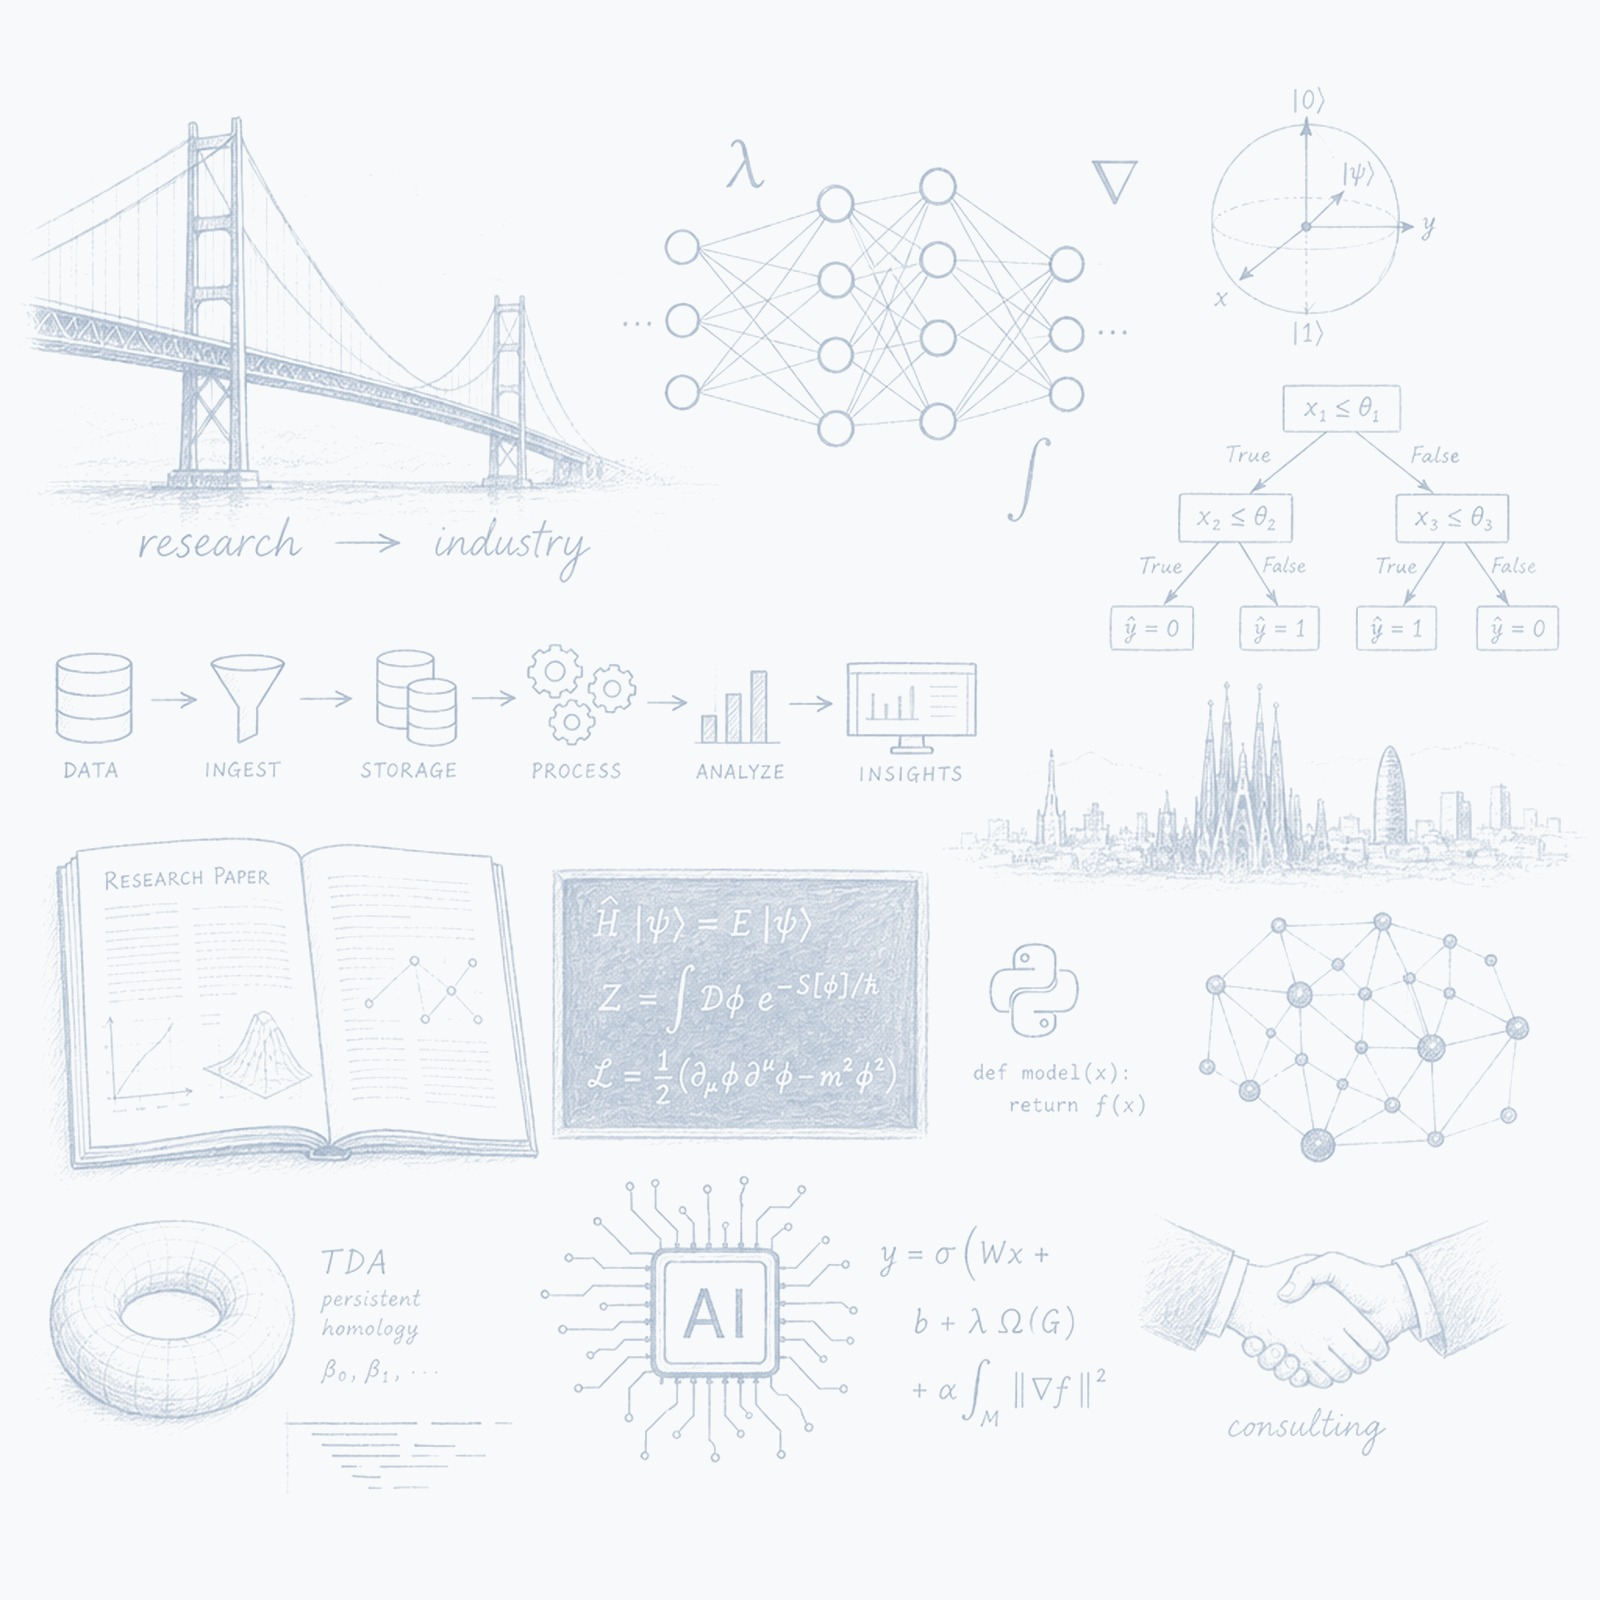
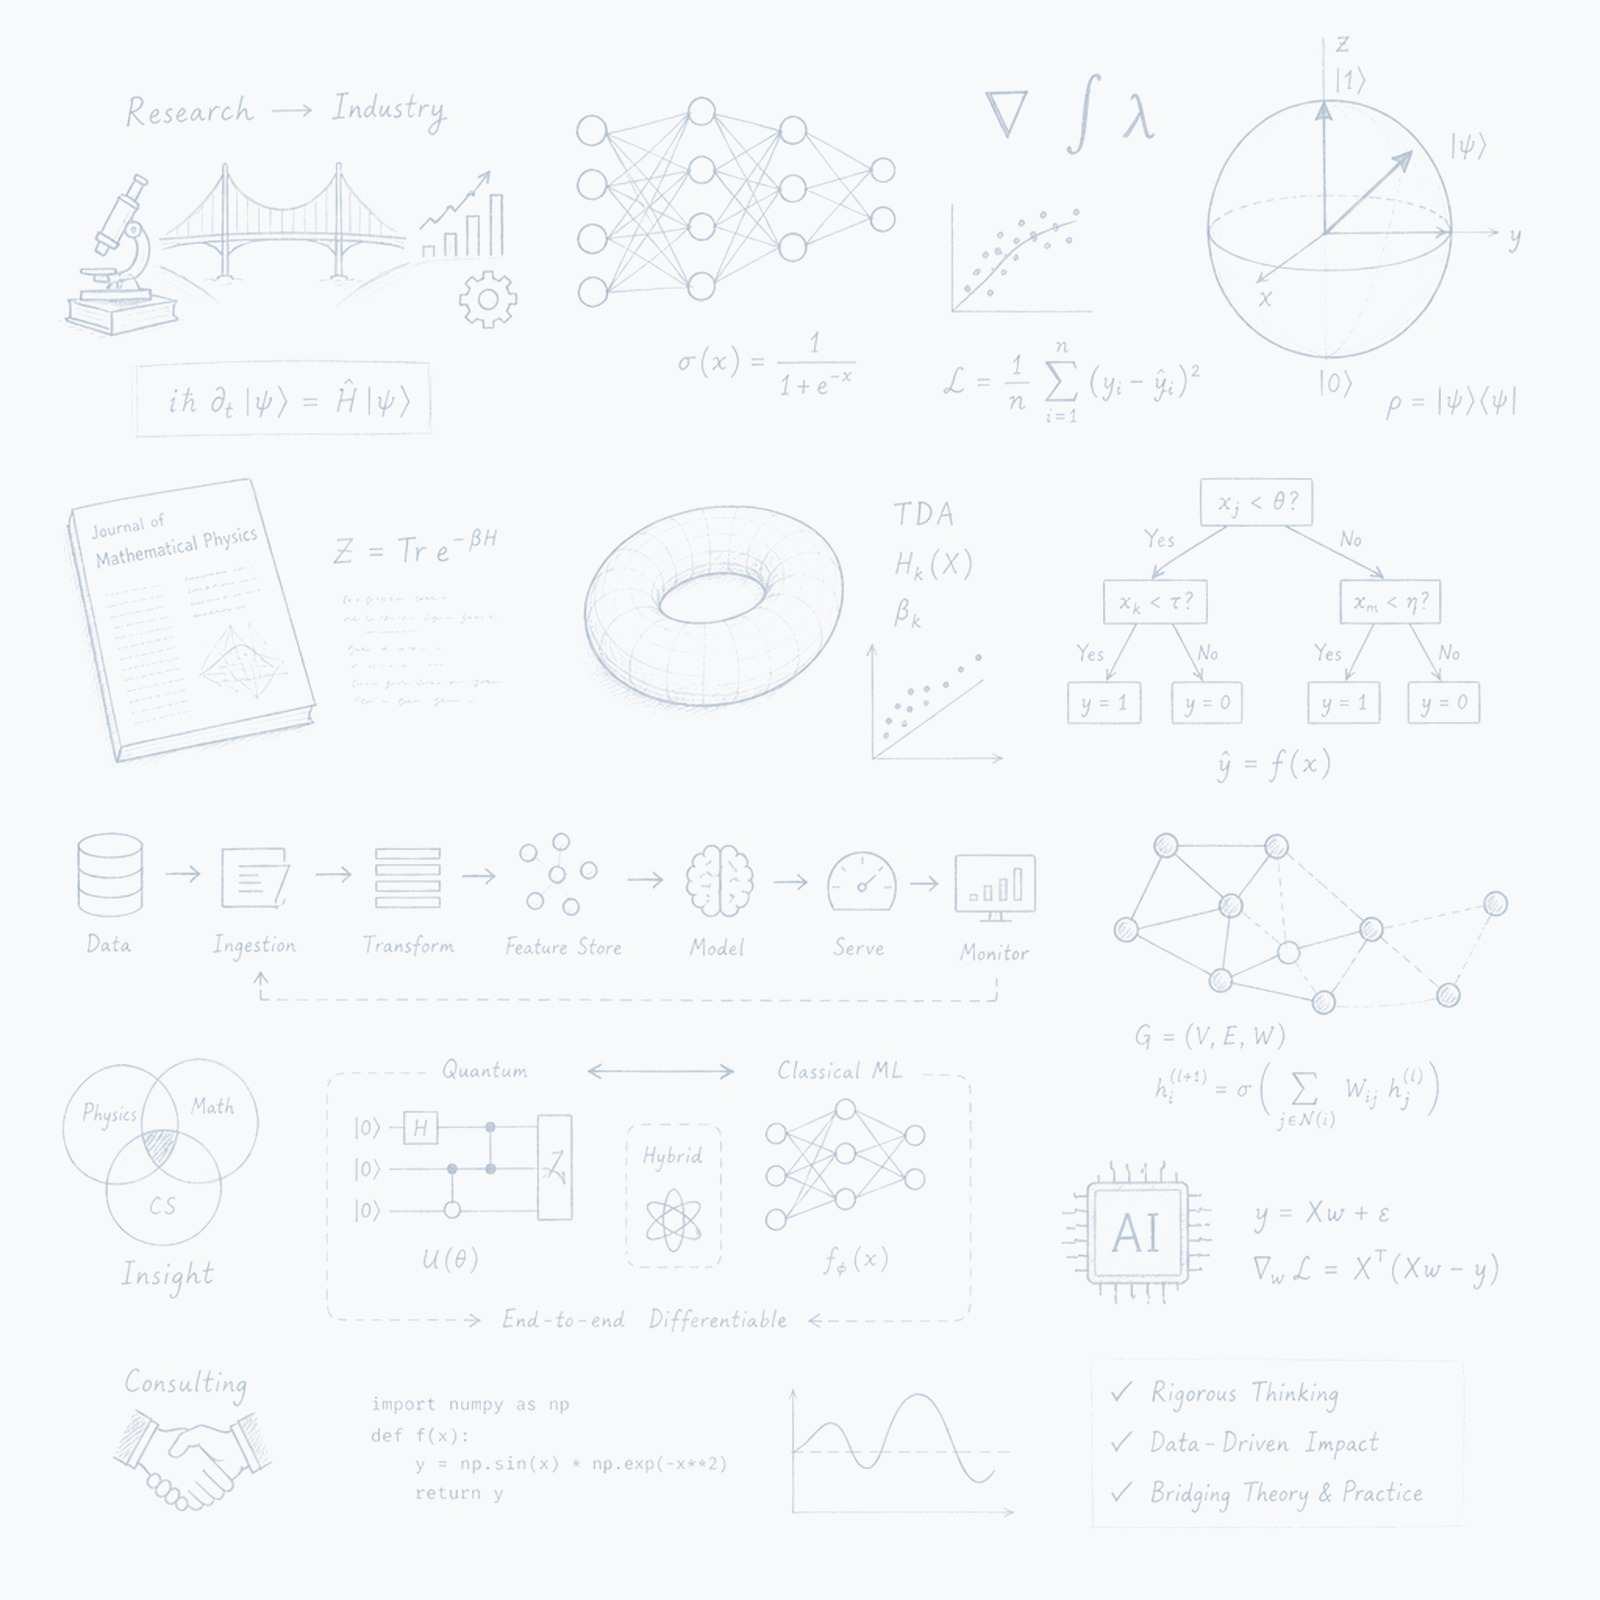
Fix CV chalkboard wash to full-viewport like Work.
Use fixed body layers for Experience/Education washes so side gutters fill on wide screens, and refresh the About wallpaper without city motifs.

diff --git a/src/styles/global.css b/src/styles/global.css
@@ -47,7 +47,8 @@ body {
 body.page-research,
 body.page-about,
 body.page-work,
-body.page-services {
+body.page-services,
+body.page-cv {
   position: relative;
   isolation: isolate;
   background-color: var(--color-bg);
@@ -56,7 +57,9 @@ body.page-services {
 body.page-research::before,
 body.page-about::before,
 body.page-work::before,
-body.page-services::before {
+body.page-services::before,
+body.page-cv::before,
+body.page-cv::after {
   content: '';
   position: fixed;
   inset: 0;
@@ -70,7 +73,9 @@ body.page-services::before {
 
 html[data-theme='dark'] body.page-about::before,
 html[data-theme='dark'] body.page-work::before,
-html[data-theme='dark'] body.page-services::before {
+html[data-theme='dark'] body.page-services::before,
+html[data-theme='dark'] body.page-cv::before,
+html[data-theme='dark'] body.page-cv::after {
   opacity: 0.26;
   filter: invert(1) hue-rotate(180deg) brightness(1.4) contrast(1.05);
 }
@@ -97,8 +102,8 @@ html[data-theme='dark'] body.page-research::before {
 
 body.page-about::before {
   background-image: image-set(
-    url('/images/about-chalkboard-v2.webp?v=11') type('image/webp'),
-    url('/images/about-chalkboard-v2.jpg?v=11') type('image/jpeg')
+    url('/images/about-chalkboard-v2.webp?v=12') type('image/webp'),
+    url('/images/about-chalkboard-v2.jpg?v=12') type('image/jpeg')
   );
 }
 
@@ -116,64 +121,45 @@ body.page-services::before {
   );
 }
 
-/* CV: Experience hybrid code + systems wash */
-.cv-experience-wash {
-  position: relative;
-  isolation: isolate;
-}
-
-.cv-experience-wash::before {
-  content: '';
-  position: absolute;
-  inset: 0 -1.5rem;
-  z-index: -1;
-  pointer-events: none;
+/* CV: fixed full-viewport washes (same technique as Work) */
+body.page-cv::before {
   background-image: image-set(
-    url('/images/cv-experience-chalkboard-v2.webp?v=11') type('image/webp'),
-    url('/images/cv-experience-chalkboard-v2.jpg?v=11') type('image/jpeg')
+    url('/images/cv-experience-chalkboard-v2.webp?v=12') type('image/webp'),
+    url('/images/cv-experience-chalkboard-v2.jpg?v=12') type('image/jpeg')
   );
-  background-size: 960px auto;
-  background-position: 0 0;
-  background-repeat: repeat;
+  transition: opacity 0.35s ease;
+}
+
+body.page-cv::after {
+  background-image: image-set(
+    url('/images/cv-academic-chalkboard-v2.webp?v=12') type('image/webp'),
+    url('/images/cv-academic-chalkboard-v2.jpg?v=12') type('image/jpeg')
+  );
+  opacity: 0;
+  transition: opacity 0.35s ease;
+}
+
+body.page-cv.cv-wash-academic::before {
+  opacity: 0;
+}
+
+body.page-cv.cv-wash-academic::after {
   opacity: 0.34;
-  border-radius: 0.75rem;
 }
 
-html[data-theme='dark'] .cv-experience-wash::before {
+html[data-theme='dark'] body.page-cv.cv-wash-academic::before {
+  opacity: 0;
+}
+
+html[data-theme='dark'] body.page-cv.cv-wash-academic::after {
   opacity: 0.26;
-  filter: invert(1) hue-rotate(180deg) brightness(1.4) contrast(1.05);
 }
 
-/* CV: academic chalk wash only from Education downward */
-.cv-academic-wash {
-  position: relative;
-  isolation: isolate;
+/* CV: Education-down divider only */
+.cv-academic-block {
   margin-top: 3rem;
   padding-top: 3rem;
   border-top: 1px solid var(--color-border);
-}
-
-.cv-academic-wash::before {
-  content: '';
-  position: absolute;
-  inset: 0 -1.5rem;
-  z-index: -1;
-  pointer-events: none;
-  background-image: image-set(
-    url('/images/cv-academic-chalkboard-v2.webp?v=8') type('image/webp'),
-    url('/images/cv-academic-chalkboard-v2.jpg?v=8') type('image/jpeg')
-  );
-  /* Large sheet so varied motif sizes stay readable */
-  background-size: 960px auto;
-  background-position: 0 0;
-  background-repeat: repeat;
-  opacity: 0.34;
-  border-radius: 0.75rem;
-}
-
-html[data-theme='dark'] .cv-academic-wash::before {
-  opacity: 0.26;
-  filter: invert(1) hue-rotate(180deg) brightness(1.4) contrast(1.05);
 }
 
 h1,
@@ -287,8 +273,8 @@ a:hover {
   body.page-about::before,
   body.page-work::before,
   body.page-services::before,
-  .cv-experience-wash::before,
-  .cv-academic-wash::before {
+  body.page-cv::before,
+  body.page-cv::after {
     display: none !important;
   }
 
